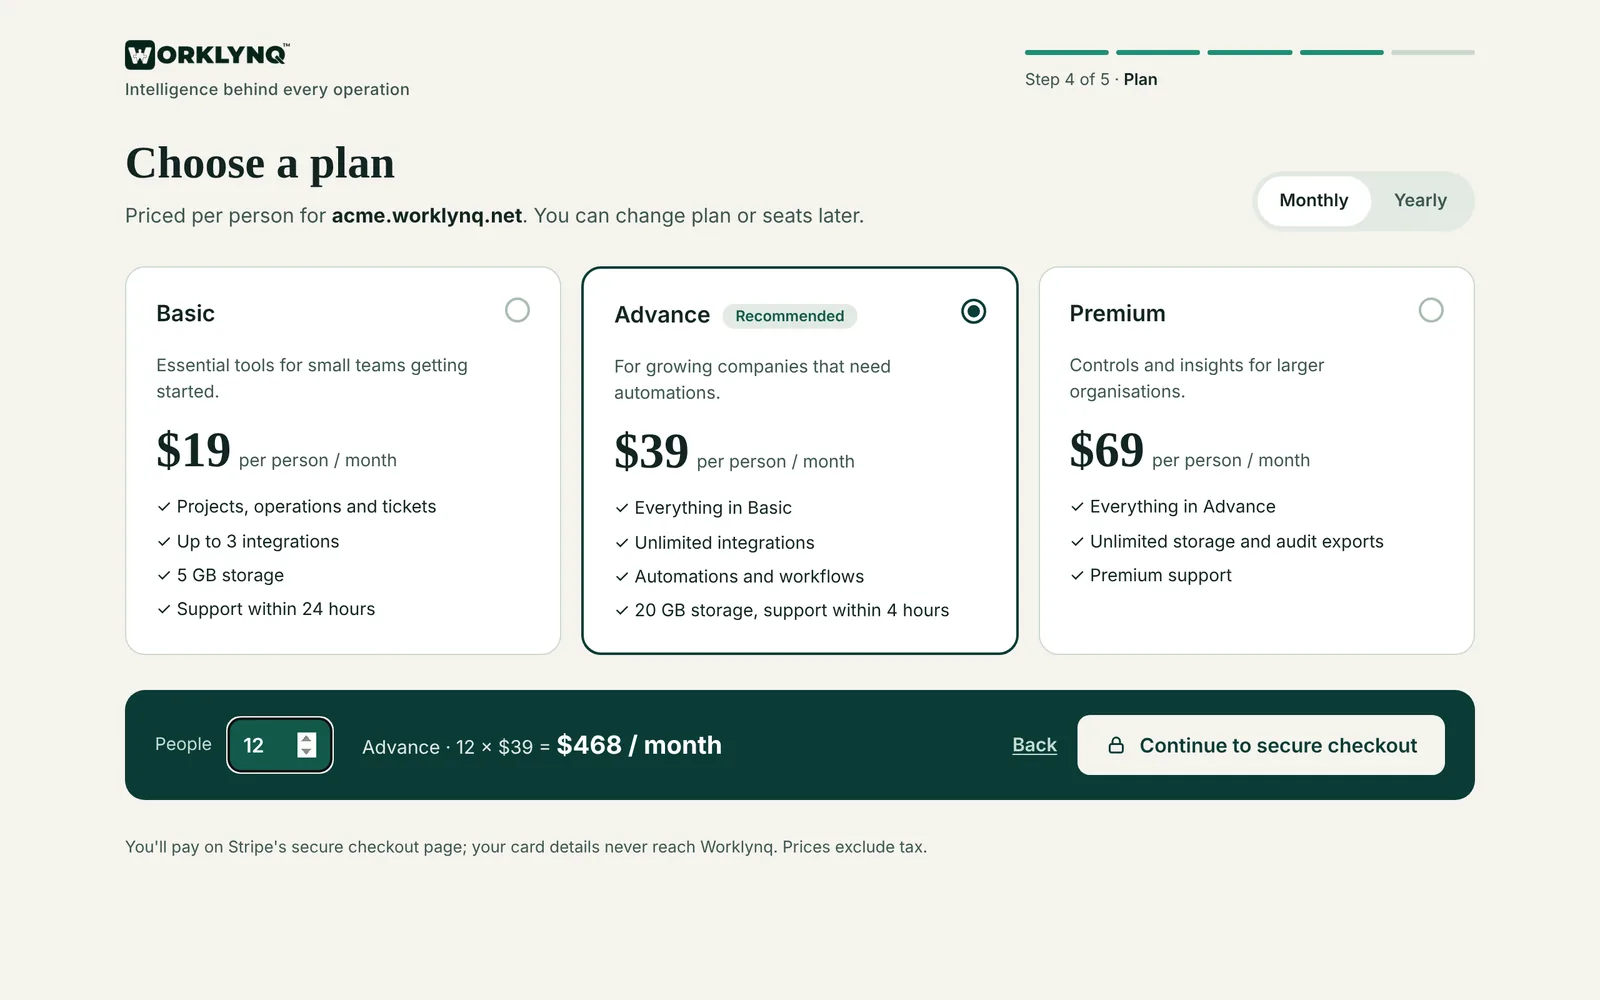
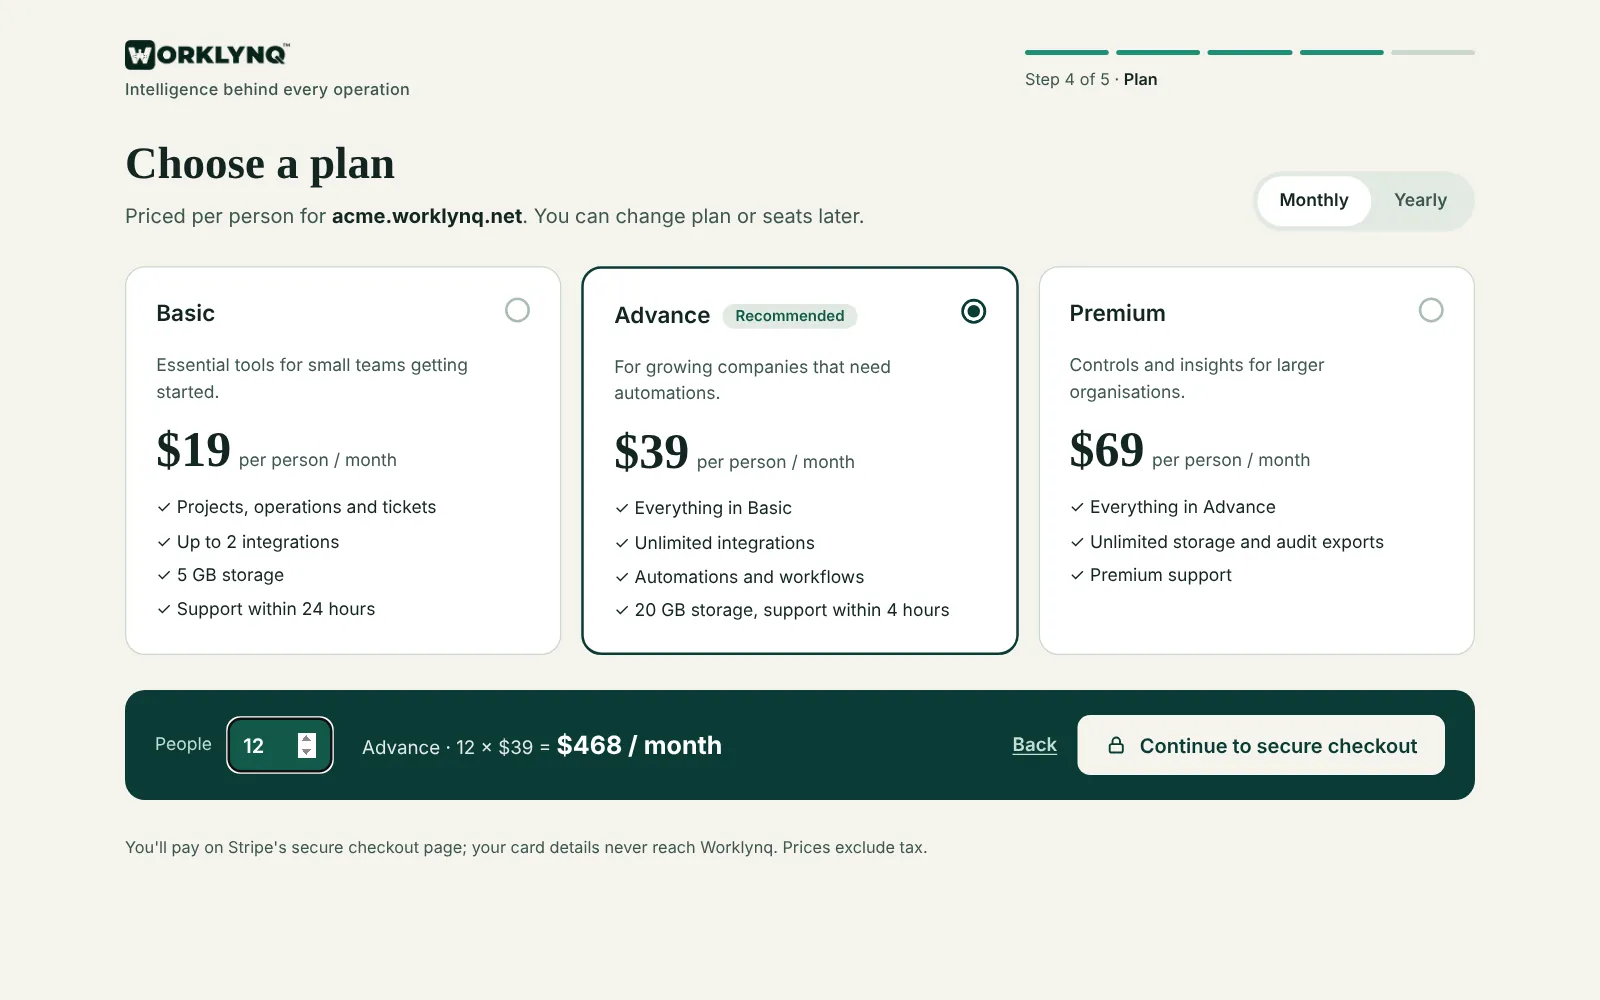
Plans: Basic includes up to 2 integrations
Plans & billing text and the sign-up plan screenshot (re-taken from
aura_monorepo #114).

Claude-Session: https://claude.ai/code/session_01LrkZDcZU3B667ZymrL3Co3

diff --git a/docs/plans-and-billing/index.html b/docs/plans-and-billing/index.html
@@ -38,7 +38,7 @@
       <h1>Plans &amp; billing</h1>
       <p class="intro">Worklynq is priced per person, monthly or yearly. You choose a plan and how many people when you sign up, and pay on Stripe’s secure checkout page.</p>
       <div class="plans">
-        <div class="plan"><h3>Basic</h3><span class="price">$19</span> <span class="per">per person / month</span><div class="per">or $199 per person / year</div><ul><li>Projects, operations and tickets</li><li>Up to 3 integrations</li><li>5 GB storage</li><li>Support within 24 hours</li></ul></div>
+        <div class="plan"><h3>Basic</h3><span class="price">$19</span> <span class="per">per person / month</span><div class="per">or $199 per person / year</div><ul><li>Projects, operations and tickets</li><li>Up to 2 integrations</li><li>5 GB storage</li><li>Support within 24 hours</li></ul></div>
         <div class="plan"><h3>Advance</h3><span class="price">$39</span> <span class="per">per person / month</span><div class="per">or $399 per person / year</div><ul><li>Everything in Basic</li><li>Unlimited integrations</li><li>Automations and workflows</li><li>20 GB storage, support within 4 hours</li></ul></div>
         <div class="plan"><h3>Premium</h3><span class="price">$69</span> <span class="per">per person / month</span><div class="per">or $699 per person / year</div><ul><li>Everything in Advance</li><li>Unlimited storage and audit exports</li><li>Premium support</li></ul></div>
       </div>
